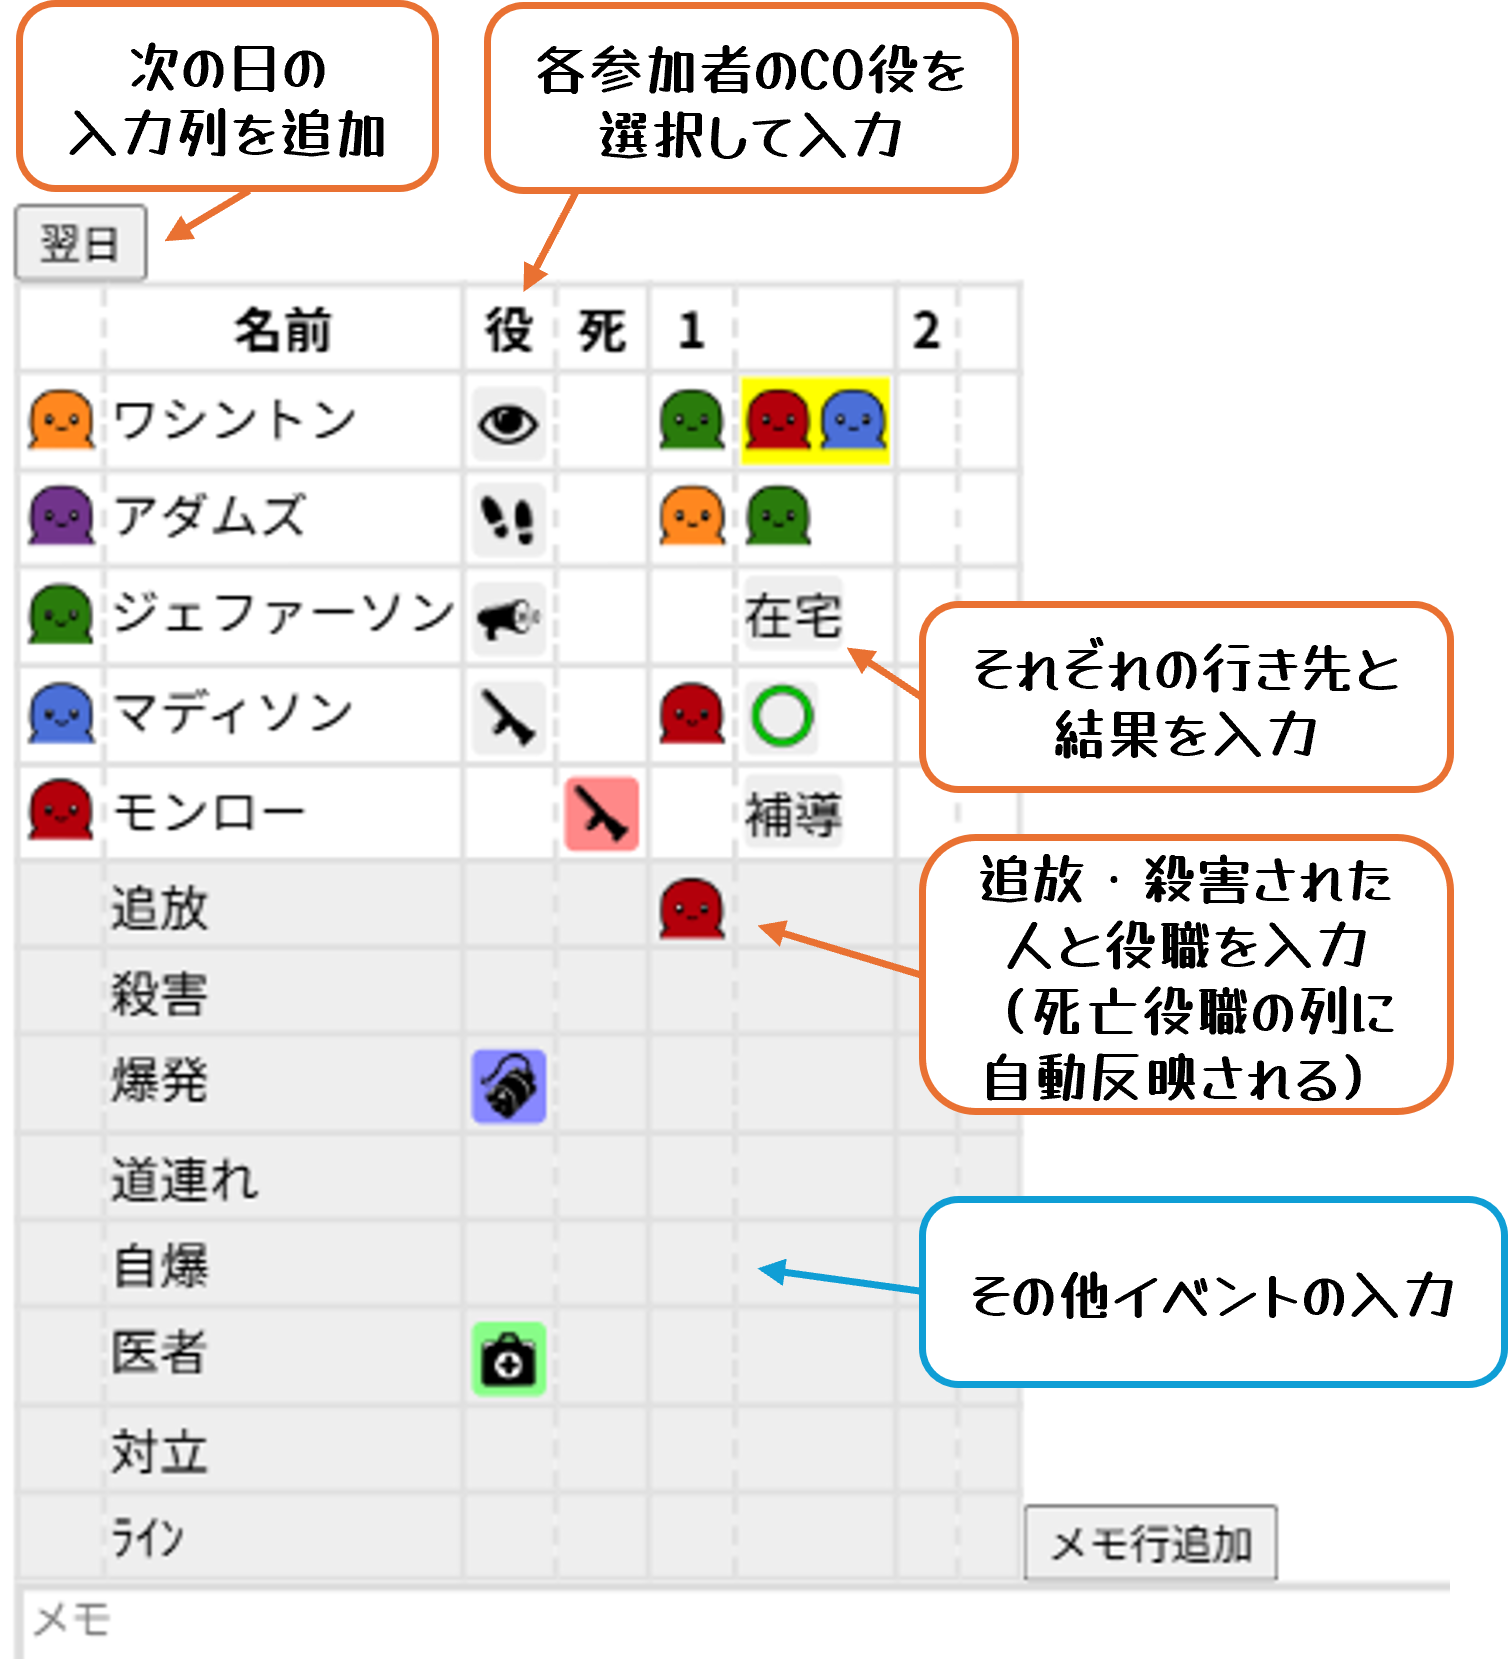
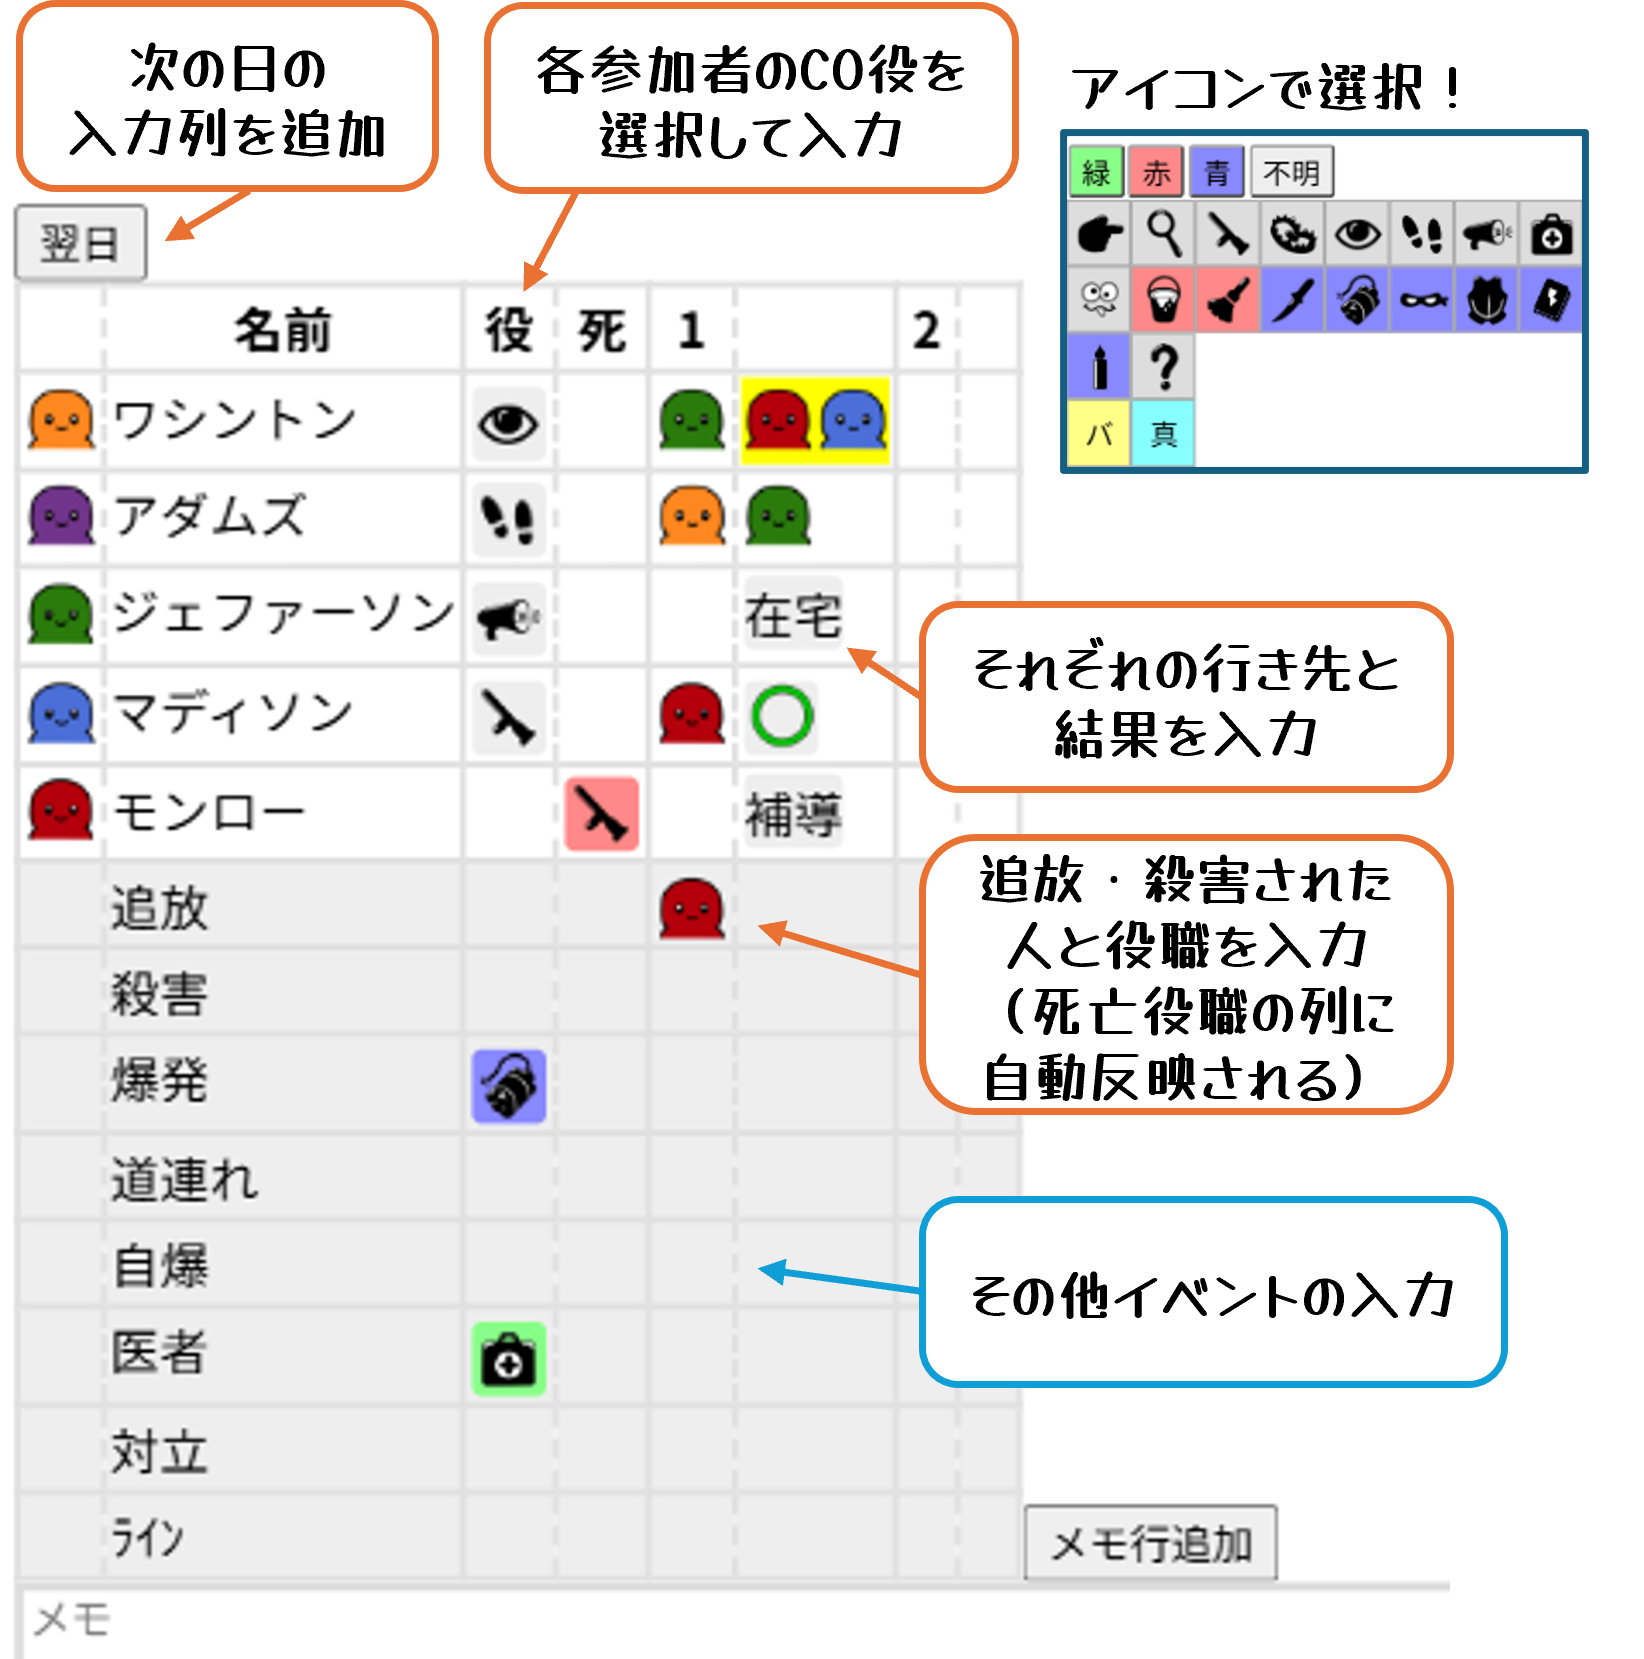
update README

diff --git a/README.md b/README.md
@@ -9,3 +9,7 @@
 ![説明2](docs/images/readme/readme_2.png)
 3. 盤面情報を記録（役職、行き先、行動結果など）  
 ![説明3](docs/images/readme/readme_3.png)
+
+## 機能詳細
+
+![説明詳細](docs/images/readme/readme_detail.png)
